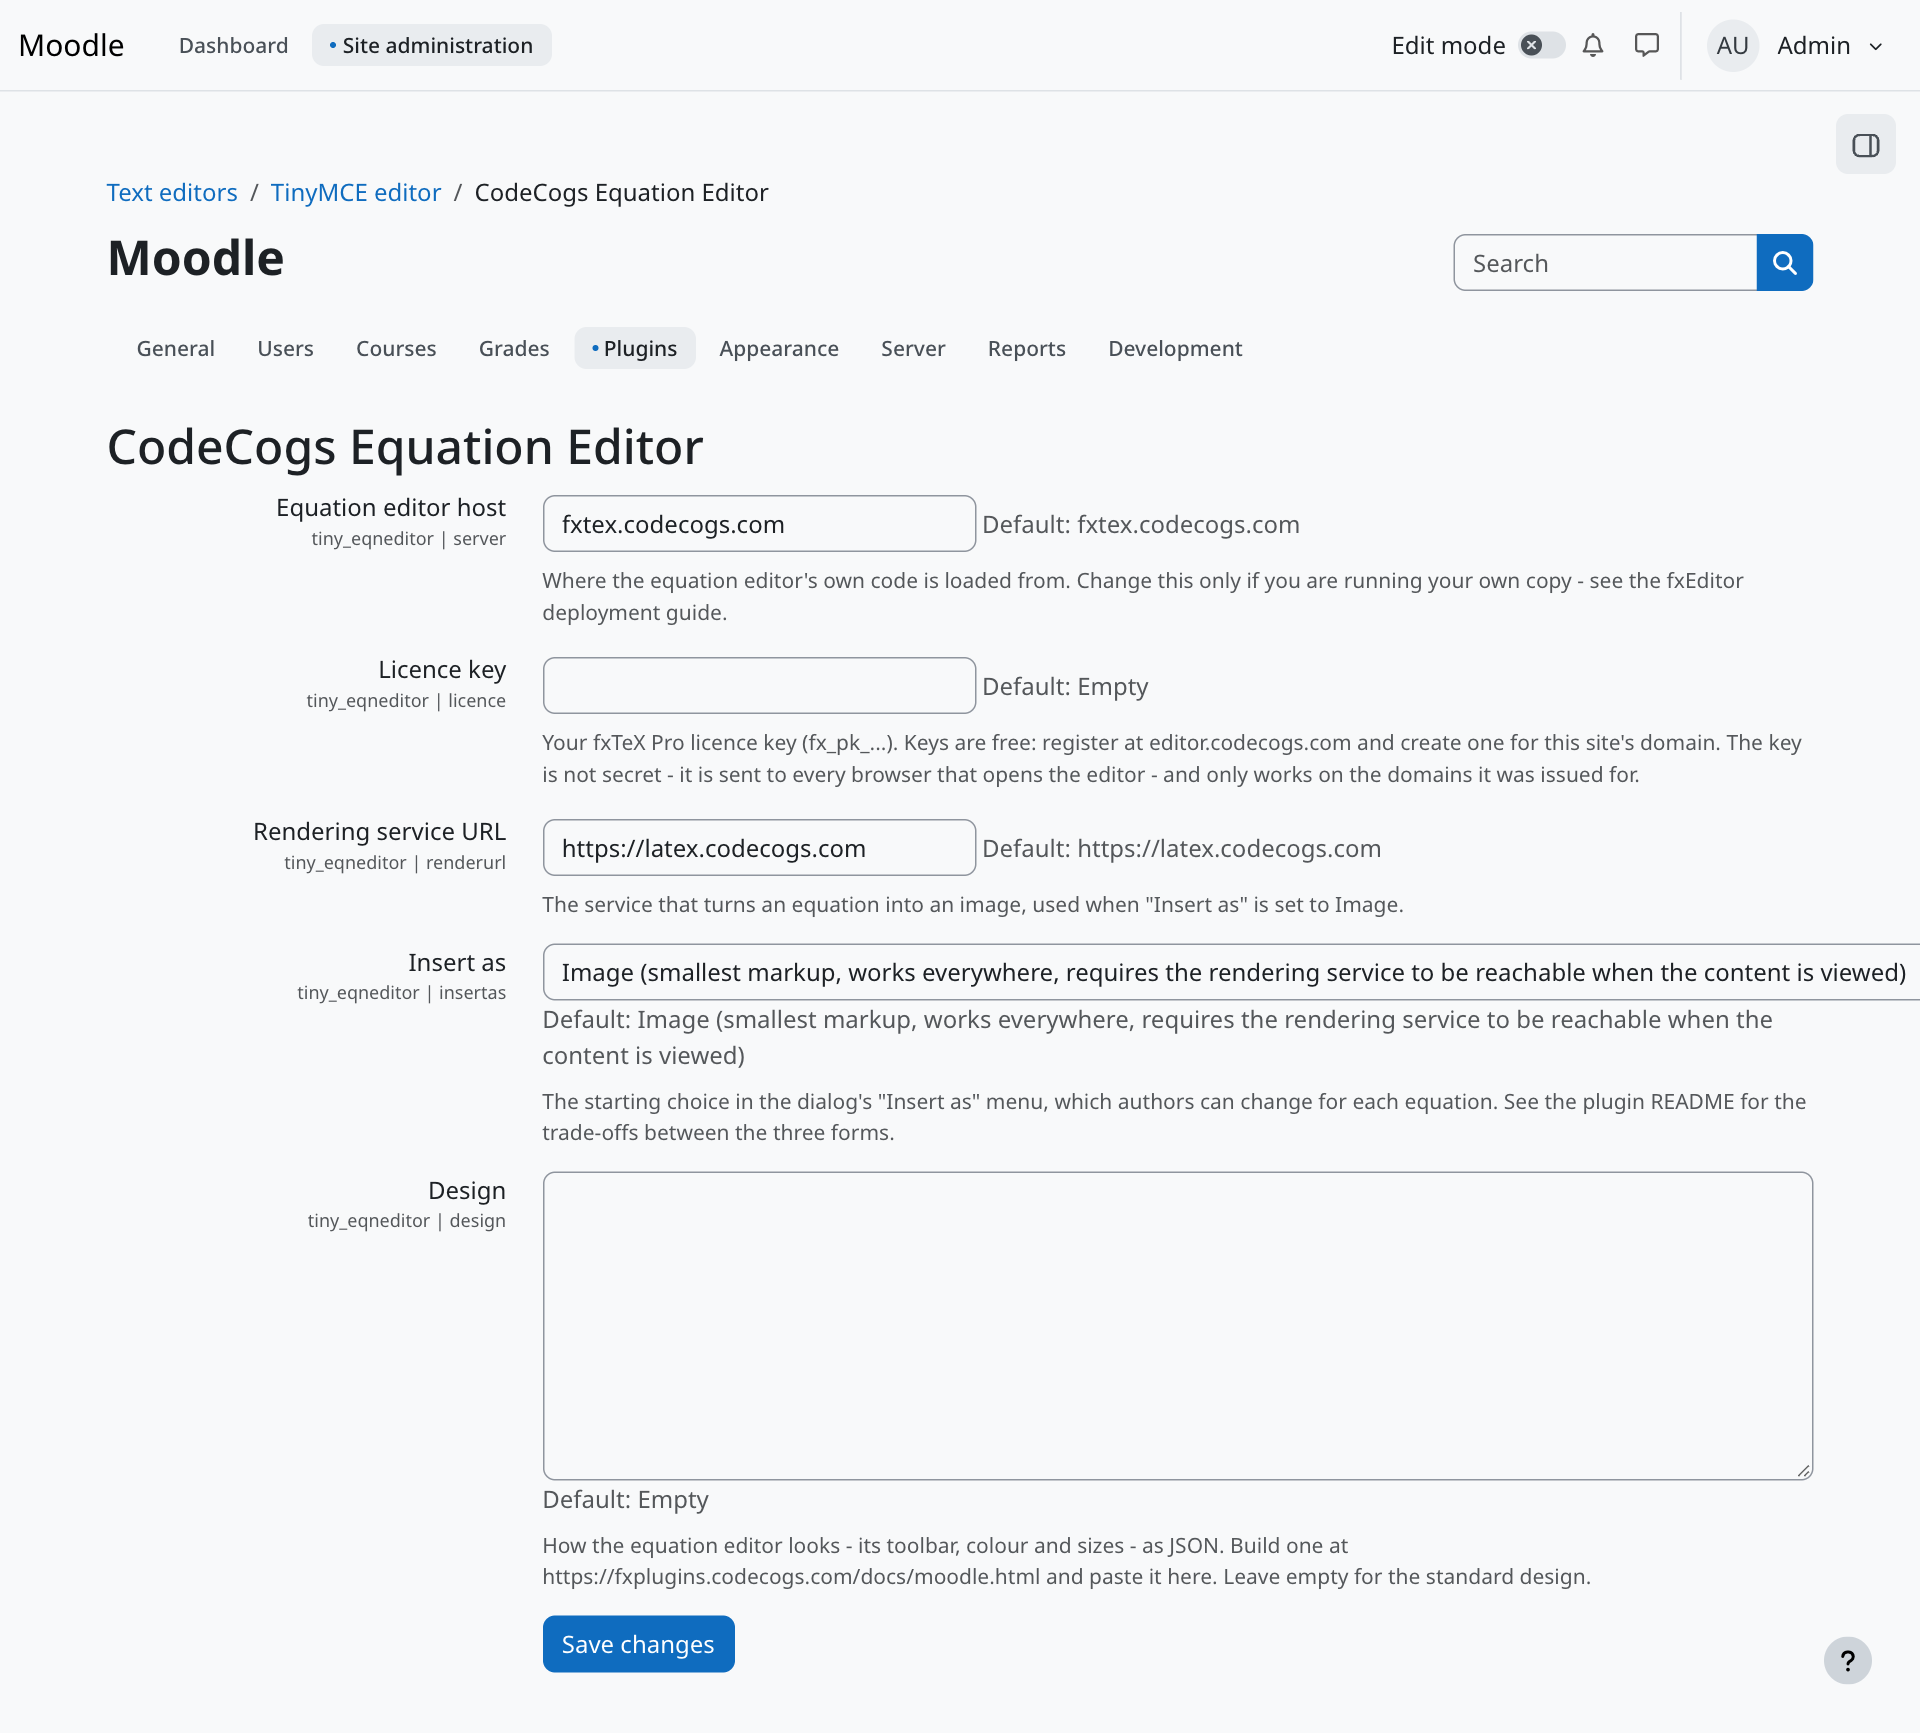
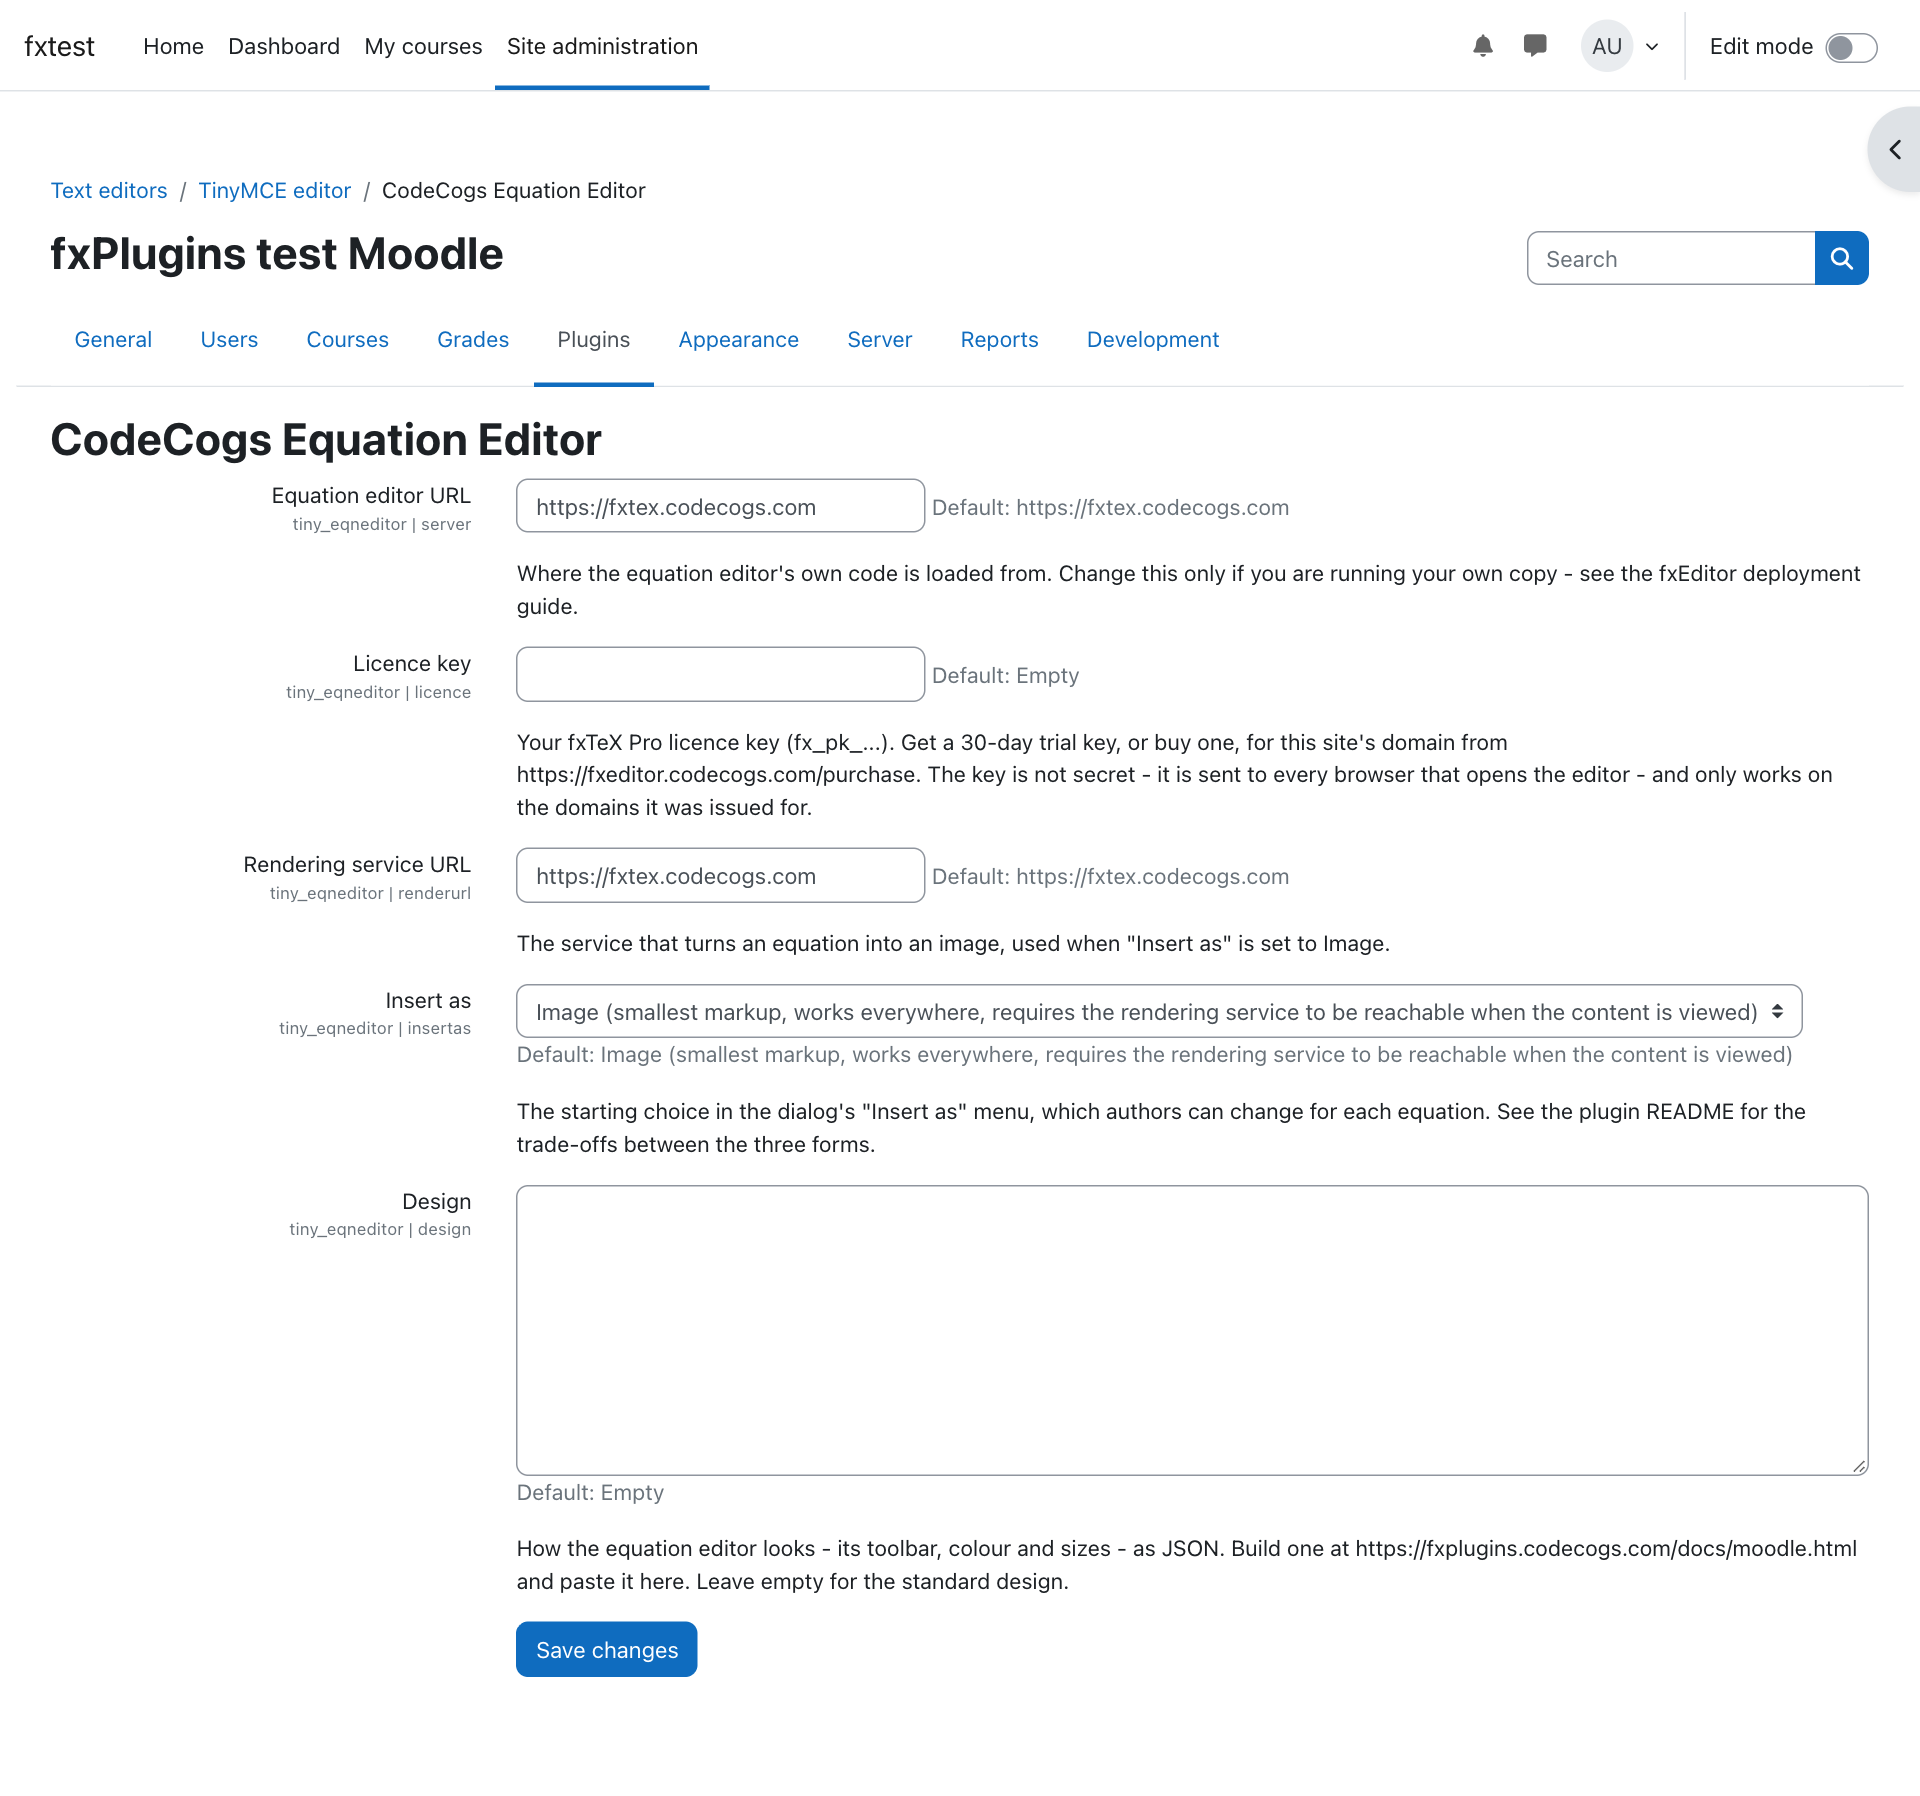
The settings screenshot retaken for 1.2.7
It showed the Equation editor host (bare fxtex.codecogs.com), the old latex.codecogs.com rendering
URL and the old free-key wording. Now the Equation editor URL and Rendering service URL, both
https://fxtex.codecogs.com, and the 30-day trial / purchase wording; licence field empty.

diff --git a/README.md b/README.md
@@ -82,7 +82,7 @@ Equation Editor > Licence key*:
 
 ![The plugin's settings page in Moodle's site administration](https://raw.githubusercontent.com/willzyba/moodle-tiny_eqneditor/main/screenshots/settings.png)
 
-*The plugin's settings page, with the Licence key field.*
+*The plugin's settings page: the Equation editor URL and the Rendering service URL, both `https://fxtex.codecogs.com`, and the Licence key field.*
 
 ### Settings
 
